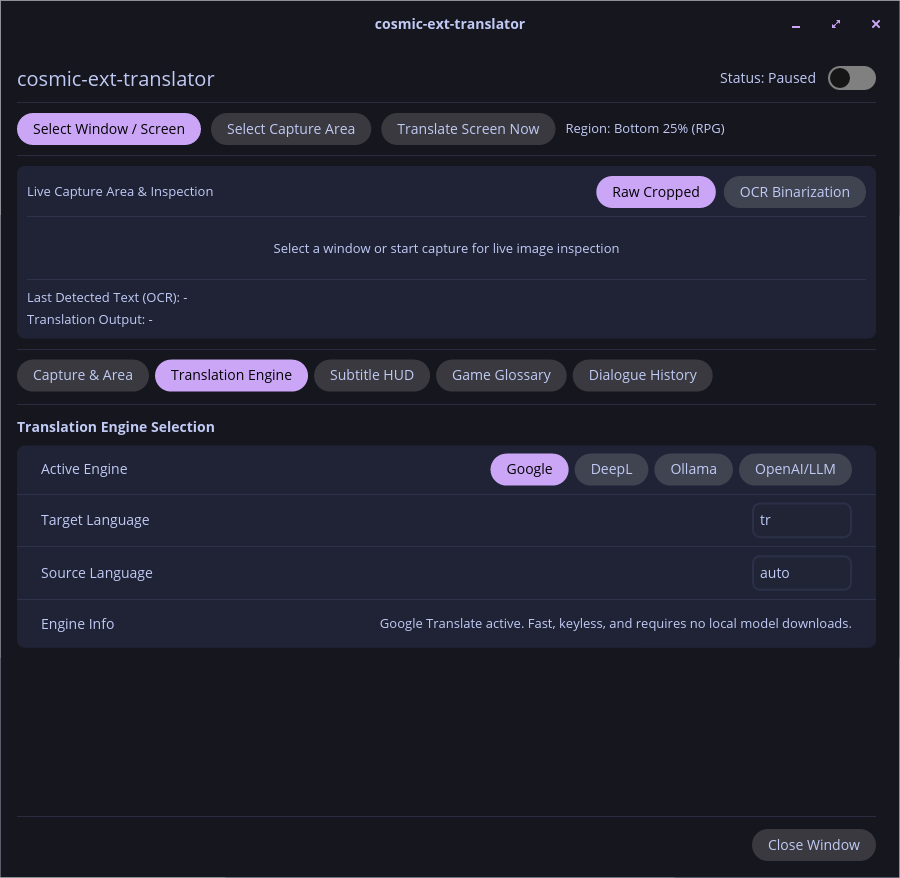
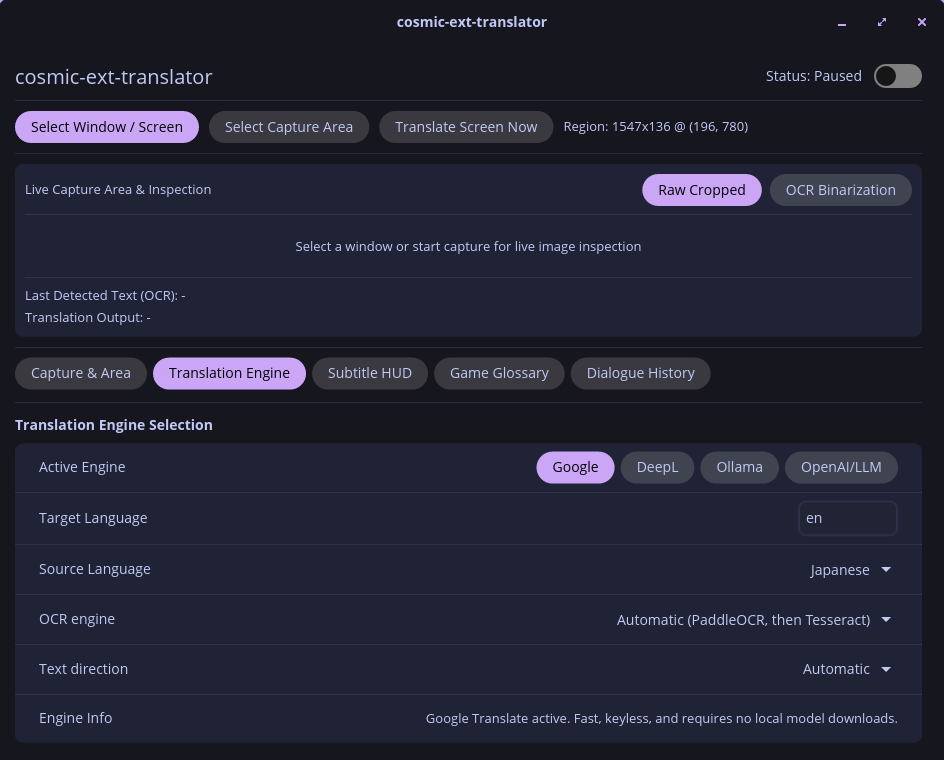
docs: add Japanese translation screenshot and current Engine tab
- hud_japanese.png: a test visual-novel scene with Japanese dialogue, read
  by PaddleOCR from a screenshot, translated with Google Translate and
  displayed by the subtitle overlay on COSMIC.
- settings_engine.png: Engine tab with Japanese source language, OCR
  engine and text direction settings.
- README shows the overlay screenshot first; AppStream uses it as the
  default screenshot.

diff --git a/README.md b/README.md
@@ -3,9 +3,15 @@
 Translates on-screen text in games and visual novels on the COSMIC desktop. It reads a screen region you choose, runs OCR locally, and shows the translation as a subtitle line on top of the game. The subtitle overlay does not take mouse or keyboard input, so the game keeps focus.
 
 <p align="center">
-  <img src="docs/assets/settings_capture.png" width="63%" alt="Settings window, Capture tab" />
+  <img src="docs/assets/hud_japanese.png" width="100%" alt="Japanese dialogue in a visual novel scene with the English translation shown by the subtitle overlay" />
+</p>
+
+Japanese dialogue read with PaddleOCR, translated with Google Translate, and shown by the subtitle overlay. The scene is a test image made for this screenshot.
+
+<p align="center">
+  <img src="docs/assets/settings_capture.png" width="56%" alt="Settings window, Capture tab" />
   &nbsp;&nbsp;
-  <img src="docs/assets/applet_popup.png" width="29%" alt="Panel applet popup" />
+  <img src="docs/assets/applet_popup.png" width="26%" alt="Panel applet popup" />
 </p>
 
 ## Contents
@@ -156,10 +162,14 @@ The settings window has five tabs. Open it from the applet, or run `cosmic-apple
 | Tab | What it controls |
 | :--- | :--- |
 | Capture | Region, ignore region, settle time, binarization, background blur filter. Includes a live preview of what the OCR sees. |
-| Engine | Translation engine, credentials, source and target language (defaults: auto → Turkish). |
+| Engine | Translation engine, credentials, source and target language (defaults: auto → Turkish). For Japanese, Chinese and Korean also the OCR engine and text direction. |
 | Display | Subtitle position, vertical offset, font size, opacity, display duration. |
 | Glossary | Fixed translations for character names and game terms. |
 | History | The last 500 translations. Searchable, with copy to clipboard. |
+
+<p align="center">
+  <img src="docs/assets/settings_engine.png" width="70%" alt="Engine tab with Japanese source language, OCR engine and text direction settings" />
+</p>
 
 Settings are stored with `cosmic-config` under `~/.config/cosmic/io.github.hasmolam.CosmicExtTranslator/`.
 
